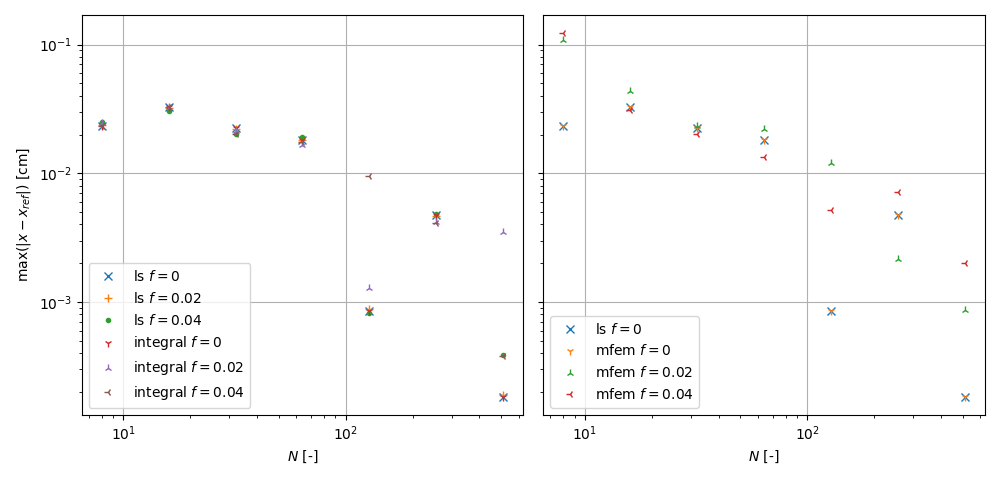
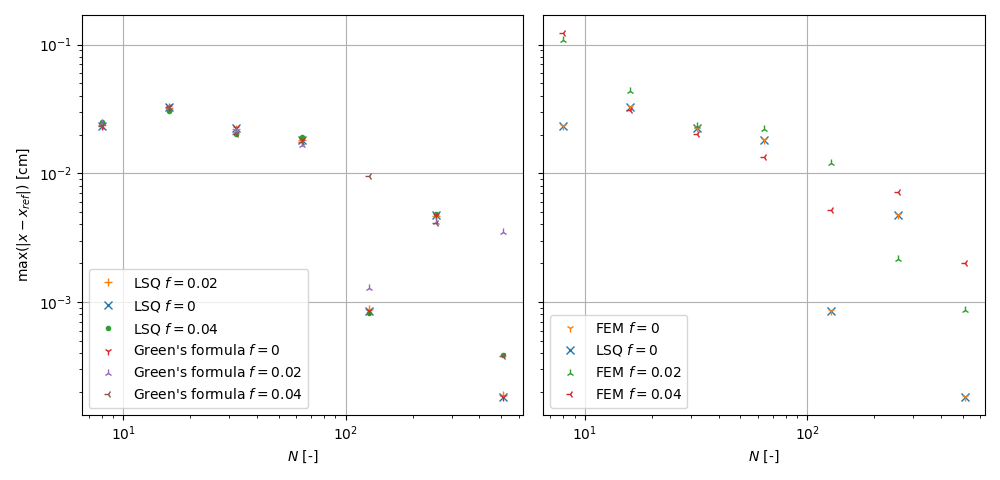
Updated images.

Changed region(s): [[0.093, 0.5312, 0.31, 0.8438], [0.558, 0.6562, 0.713, 0.8438]]

diff --git a/run/analytic/trajectory_error.py b/run/analytic/trajectory_error.py
@@ -22,6 +22,12 @@ def fit_func(x, a, b):
 
 
 def compare_gradients(axes, first_grad_type, second_grad_type, eval_method=np.median, fit=False):
+    labels = {
+        "ls": "LSQ",
+        "mfem": "FEM",
+        "integral": "Green's formula"
+    }
+
     for grad_type, markers in zip([first_grad_type, second_grad_type], [["x", "+", "."], ["1", "2", "3"]]):
         for factor, mark in zip([0, 0.02, 0.04], markers):
             if second_grad_type == "mfem" and grad_type == "ls" and factor > 0:
@@ -39,15 +45,20 @@ def compare_gradients(axes, first_grad_type, second_grad_type, eval_method=np.me
                 error = np.absolute(final_x - final_analytic_x)
                 errors.append(eval_method(error))
 
-            axes.loglog(counts, errors, mark, label=grad_type + " $f = $" + str(factor))
+            axes.loglog(counts, errors, mark, label=labels[grad_type] + " $f = $" + str(factor))
 
             if fit and grad_type == "ls" and factor == 0:
                 popt, pcov = optimize.curve_fit(fit_func, counts, errors, p0=[1, -2])
                 x = np.linspace(min(counts), max(counts))
-                axes.loglog(x, fit_func(x, *popt))
+                axes.loglog(x, fit_func(x, *popt), label="$\\sim N^{-1.87}$", color="blue")
                 print(popt[1])
 
-    axes.legend(loc=3)
+    handles, labels = axes.get_legend_handles_labels()
+
+    handles = [handles[1], handles[0], *handles[2:]]
+    labels = [labels[1], labels[0], *labels[2:]]
+
+    axes.legend(handles, labels, loc=3)
     axes.grid()
 
 

diff --git a/run/analytic/error512.py b/run/analytic/error512.py
@@ -30,9 +30,9 @@ def compare_errors(axes, grad_type, **kwargs):
 
 def main():
     fig, [ax0, ax1] = plt.subplots(2)
-    compare_errors(ax0, "ls", marker="+", label="ls")
-    compare_errors(ax0, "mfem", marker=".", label="mfem")
-    compare_errors(ax0, "integral", marker="1", label="integral")
+    compare_errors(ax0, "ls", marker="+", label="LSQ")
+    compare_errors(ax0, "mfem", marker=".", label="FEM")
+    compare_errors(ax0, "integral", marker="1", label="Green's formula")
     ax0.set_xlabel("$x$ [cm]")
     ax0.set_ylabel("$|x - x_{ref}|$ [cm]")
     ax0.set_ylim((0, 0.0008))
